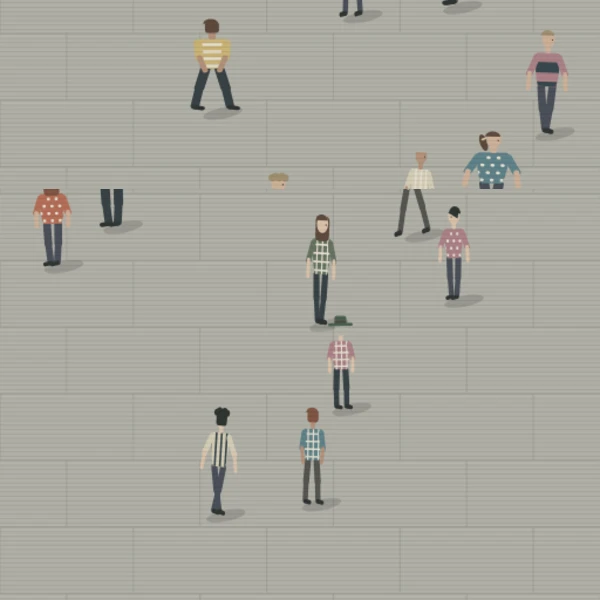
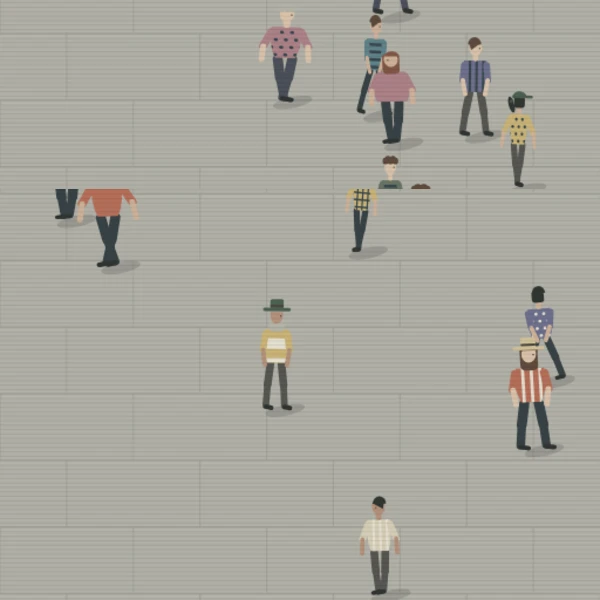
群衆の避け合う間隔を狭め成功表示に連続数を追加

diff --git a/games/_shuto/index.html b/games/_shuto/index.html
@@ -131,6 +131,7 @@
   var S = { INTRO: "intro", PLAY: "play", SUCCESS: "success", RESULT: "result" };
   var state, score, T, held, successWait=0, keyMode = false;
 
+  var PERSONAL_SPACE=32;
   var level=1, CROWD_SIZE=20, FRAME_SECONDS=1/24, STRIKE_SECONDS=1/30, GUESS_SECONDS=5;
   var people=[], attacker=-1, victim=-1, attackAt=0, elapsed=-1, outcome='', selected=0;
   var clothes=['#c76c50','#5d8790','#d5b76b','#697761','#6f7096','#b88188','#ded3b4'];
@@ -158,7 +159,7 @@
     for(var i=0;i<CROWD_SIZE;i++){
       var p=makePerson(i),tries=0;
       do{p.x=15+Math.random()*510;p.y=40+Math.random()*(H-55);tries++;}
-      while(tries<1000&&people.some(function(q){return Math.hypot(p.x-q.x,p.y-q.y)<66;}));
+      while(tries<1000&&people.some(function(q){return Math.hypot(p.x-q.x,p.y-q.y)<PERSONAL_SPACE+2;}));
       if(i<2){p.x=W/2+(i===0?-33:33);p.y=pairY;p.vx=pairVX;p.vy=pairVY;}
       else if(tries>=1000)enter(p);
       people.push(p);
@@ -184,7 +185,7 @@
         if(endX<64||endX>W-64||endY<130||endY>H-60)return;
         people.forEach(function(q){
           var distance=Math.hypot(p.x-q.x,p.y-q.y);
-          if(p.id!==q.id&&distance>=63&&distance<88&&Math.abs(p.y-q.y)<28)pairs.push([p.id,q.id]);
+          if(p.id!==q.id&&distance>=PERSONAL_SPACE-1&&distance<88&&Math.abs(p.y-q.y)<28)pairs.push([p.id,q.id]);
         });
       });
       if(pairs.length){
@@ -231,7 +232,7 @@
       p.x=edge===0?-100:edge===1?W+100:Math.random()*W;
       p.y=edge===2?-110:edge===3?H+160:Math.random()*H;
       attempt++;
-    }while(attempt<200&&people.some(function(q){return p!==q&&Math.hypot(p.x-q.x,p.y-q.y)<66;}));
+    }while(attempt<200&&people.some(function(q){return p!==q&&Math.hypot(p.x-q.x,p.y-q.y)<PERSONAL_SPACE+2;}));
     var dx=targetX-p.x,dy=targetY-p.y,d=Math.hypot(dx,dy);
     p.vx=dx/d*p.speed;p.vy=dy/d*p.speed;
   }
@@ -241,12 +242,12 @@
       p.x+=p.vx*dt;p.y+=p.vy*dt;
       if(p.x< -120||p.x>W+120||p.y< -140||p.y>H+190)enter(p);
     });
-    // 近づいた人同士が少しずつ道を譲り、押し分けられる間隔を残す。
+    // 近づいた人同士が少しずつ道を譲り、肩が触れるくらいの間隔ですれ違う。
     for(var pass=0;pass<5;pass++)for(var i=0;i<people.length;i++)for(var j=i+1;j<people.length;j++){
       var p=people[i],q=people[j],dx=p.x-q.x,dy=p.y-q.y,d=Math.hypot(dx,dy);
-      if(d>=64)continue;
+      if(d>=PERSONAL_SPACE)continue;
       if(d<.001){dx=1;dy=0;d=1;}
-      var shift=(64-d)/2,px=dx/d*shift,py=dy/d*shift;
+      var shift=(PERSONAL_SPACE-d)/2,px=dx/d*shift,py=dy/d*shift;
       if(p.id!==victim){p.x+=px*(q.id===victim?2:1);p.y+=py*(q.id===victim?2:1);}
       if(q.id!==victim){q.x-=px*(p.id===victim?2:1);q.y-=py*(p.id===victim?2:1);}
     }
@@ -510,9 +511,9 @@
     ctx.font=state===S.SUCCESS?'800 42px sans-serif':'800 48px sans-serif';
     ctx.fillText(resultText(), W / 2, H * 0.45);
     ctx.restore();
+    ctx.fillStyle='#fff';ctx.font=state===S.SUCCESS?'800 34px sans-serif':'800 48px sans-serif';ctx.textAlign='center';
+    ctx.fillText(state===S.SUCCESS?'（'+score+'連続）':String(score),W/2,H*.54);
     if(state===S.SUCCESS)return;
-    ctx.fillStyle='#fff';ctx.font='800 48px sans-serif';ctx.textAlign='center';
-    ctx.fillText(String(score),W/2,H*.54);
     resultButtons().forEach(function (b) {
       ctx.save();
       ctx.translate(b.x + b.w / 2, b.y + b.h / 2);

diff --git a/games/_tools/tests/shuto.js b/games/_tools/tests/shuto.js
@@ -6,14 +6,14 @@ for(const shape of [[375,812],[700,700],[500,1600]]){
   g.probe.reset();g.tap(270,100);assert.equal(g.probe.now().state,'play');
   assert(g.until(()=>g.probe.now().elapsed>=0,1200),'手刀が出る');
   let s=g.probe.now();assert.equal(s.people.length,20,'最初の群衆は20人');assert(Math.abs(s.people[s.attacker].x-s.people[s.victim].x)<88,'近くの相手に手刀');
-  for(let i=0;i<s.people.length;i++)for(let j=i+1;j<s.people.length;j++){if(i===s.victim||j===s.victim)continue;assert(Math.hypot(s.people[i].x-s.people[j].x,s.people[i].y-s.people[j].y)>=63,'押す間隔');}
+  for(let i=0;i<s.people.length;i++)for(let j=i+1;j<s.people.length;j++){if(i===s.victim||j===s.victim)continue;assert(Math.hypot(s.people[i].x-s.people[j].x,s.people[i].y-s.people[j].y)>=31,'人同士の間隔');}
   if(round%3===0){g.probe.step(119);assert.equal(g.probe.now().state,'play');g.probe.step(1);assert.equal(g.probe.now().outcome,'miss');assert.equal(g.probe.now().elapsed,5);assert.equal(g.probe.now().resultText,'見逃した');}
   else if(round%3===1){g.probe.step(48);s=g.probe.now();const p=s.people[s.attacker];g.tap(p.x,p.y);assert.equal(g.probe.now().outcome,'caught');assert.equal(g.probe.now().resultText,'見逃さなかった');}
   else{let p=s.people.find(p=>p.id!==s.attacker&&p.id!==s.victim&&p.x>32&&p.x<508&&p.y>45&&p.y<s.H-45);g.tap(p.x,p.y);assert.equal(g.probe.now().outcome,'wrong');assert.equal(g.probe.now().resultText,'見逃した');}
   g.esc();assert.equal(g.probe.now().state,'play');g.drawn.length=0;
  }
 }
-console.log('OK 3画面×9回：開始待ち・隣の人への手刀・63以上の間隔・5秒の境界・正解・不正解・再挑戦');
+console.log('OK 3画面×9回：開始待ち・隣の人への手刀・32の避け合う間隔・5秒の境界・正解・不正解・再挑戦');
 
 // 結果後まで歩行だけ進め、再入場の全件が画面外か確認する。
 const crowd=load('games/_shuto/index.html',{inject:'window.__dbg={walk:function(){walkCrowd(1/60);}};'});
@@ -68,3 +68,12 @@ for(let i=0;i<48;i++)streak.dbg.tick();
 assert.equal(streak.probe.now().people.length,200);assert.equal(streak.probe.now().level,10);assert.equal(streak.probe.now().score,1);
 streak.esc();assert.equal(streak.probe.now().people.length,20);assert.equal(streak.probe.now().score,0);
 console.log('OK 数字1〜9・0の段階移動、20人ずつ増加、上限200人、飛ばした分は得点にしない');
+
+// 200人でも広い空白を作らず、32の間隔で歩ける。
+const dense=load('games/_shuto/index.html',{w:700,h:700,inject:'window.__dbg={walk:function(){walkCrowd(1/24);}};'});
+dense.press('0');let ds=dense.probe.now();
+assert(ds.people.filter(p=>p.x>=0&&p.x<=540&&p.footY>=0&&p.footY<=ds.H).length>=190,'200人の大半を最初から画面内に置く');
+for(let frame=0;frame<240;frame++)dense.dbg.walk();ds=dense.probe.now();let nearest=Infinity;
+for(let i=0;i<ds.people.length;i++)for(let j=i+1;j<ds.people.length;j++)nearest=Math.min(nearest,Math.hypot(ds.people[i].x-ds.people[j].x,ds.people[i].y-ds.people[j].y));
+assert(nearest>=31&&nearest<40,'32付近まですれ違える');
+console.log('OK 200人を画面内に配置、10秒歩行後も間隔は32付近');
